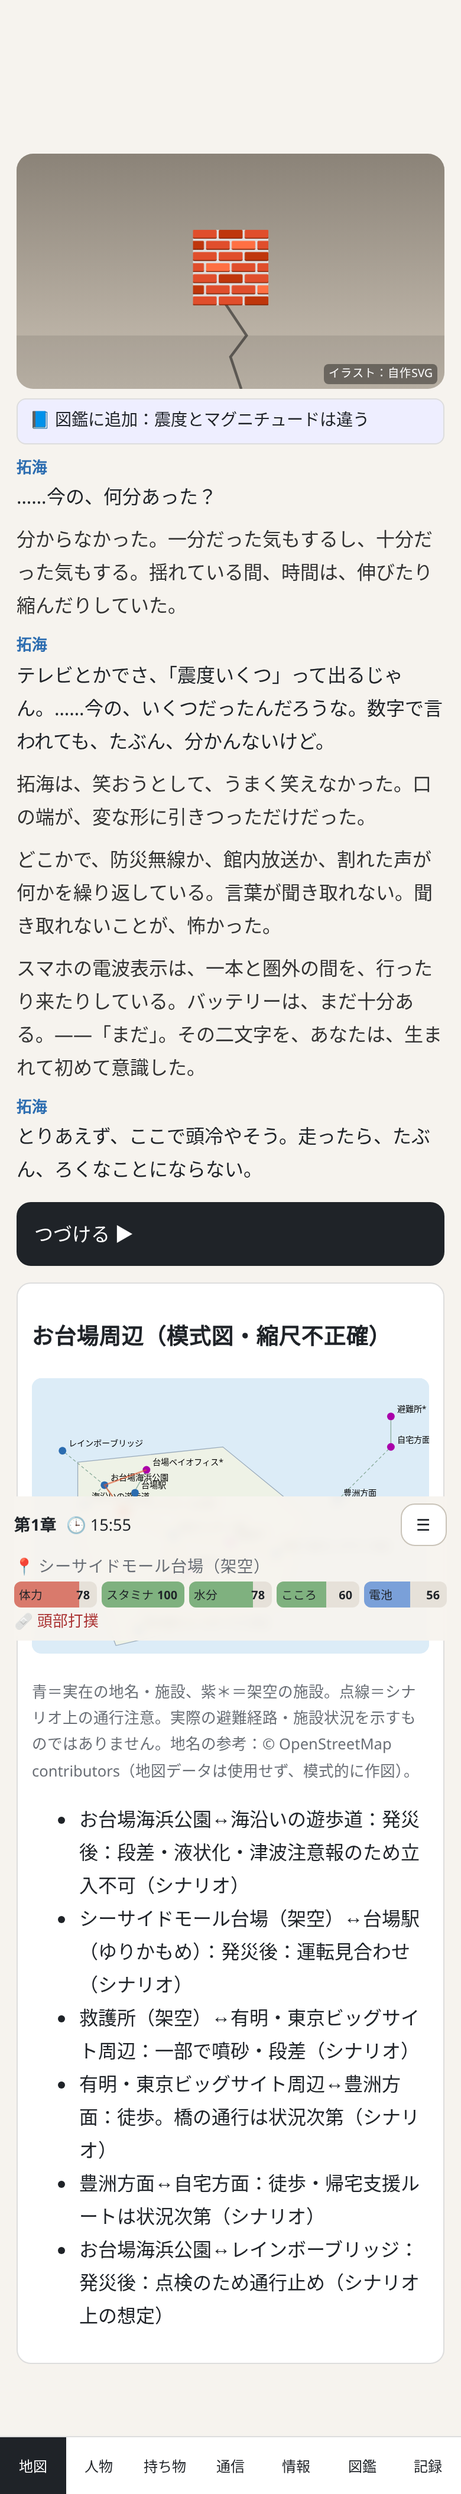
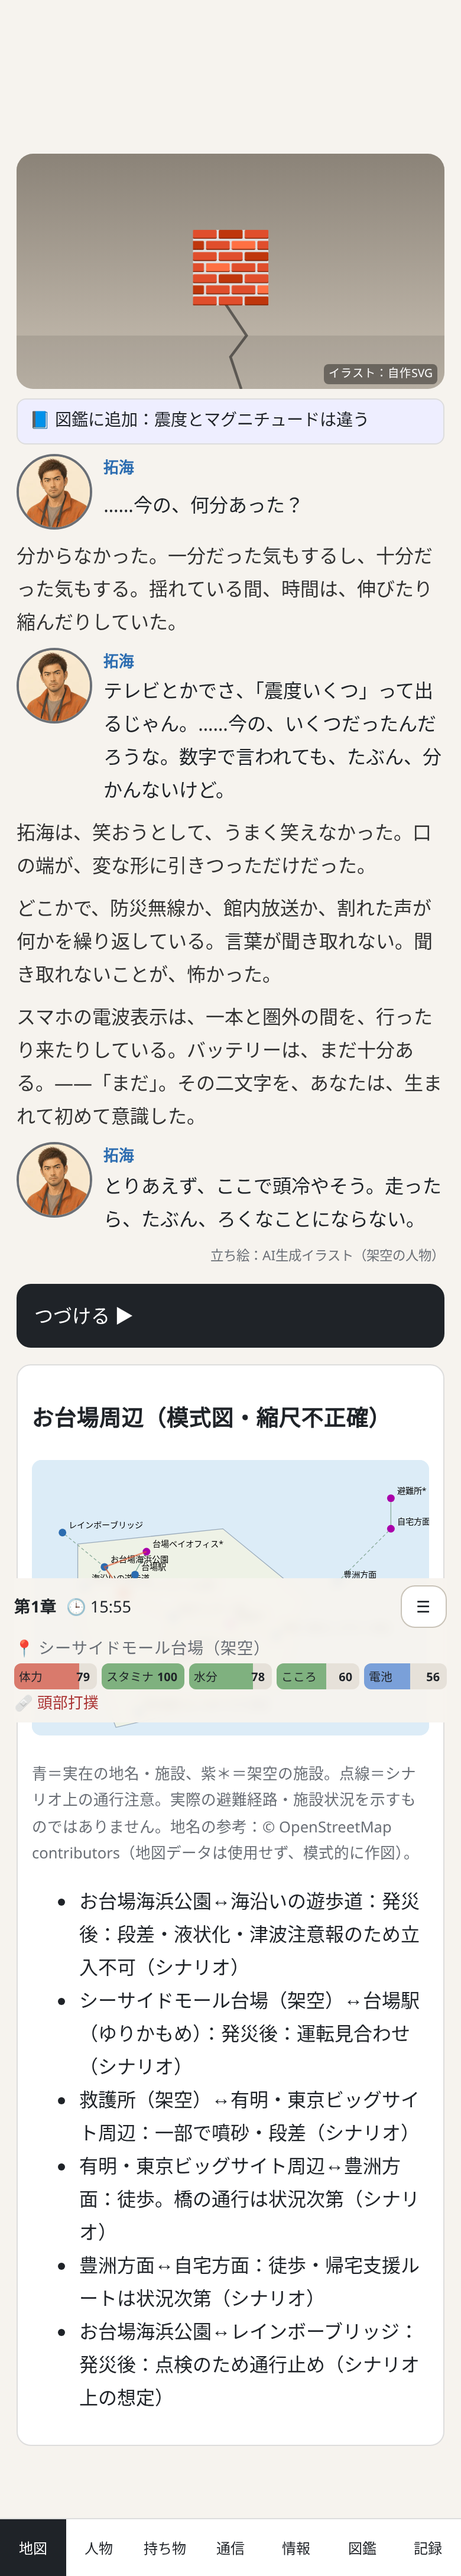
Portraits: 13 AI-generated characters x2 expressions (webp), AI label, settings toggle, RIGHTS.md

diff --git a/src/main.ts b/src/main.ts
@@ -5,6 +5,7 @@ import type { State, PresetId } from './engine/types';
 import { save, load, clearSave, exportText, importText, prefs, setPrefs, addPlay, plays, type Prefs } from './platform/save';
 import { cue, setSound } from './platform/sound';
 import { sceneArt } from './ui/art';
+import { portraitSrc } from './ui/portraits';
 
 export const DISCLAIMER = '本作は防災教育を目的としたシミュレーションゲームです。ゲーム内の地震、被害、施設状況、避難経路、人物の行動は架空のシナリオを含みます。現実の災害時は、気象庁、自治体、消防、警察などの最新の公式情報と現地の状況に従ってください。本作のプレイ結果だけで実際の安全を保証するものではありません。';
 const TITLE = 'ゆれのあと、きみへ。';
@@ -20,6 +21,7 @@ const esc = (t: string) => t.replace(/[&<>"]/g, c => ({ '&': '&amp;', '<': '&lt;
 const h = (html: string) => { app.innerHTML = html; window.scrollTo(0, 0); };
 const F = (t: string) => (S ? esc(fill(t, S)) : esc(t));
 const on = (sel: string, fn: (el: HTMLElement) => void) => app.querySelectorAll<HTMLElement>(sel).forEach(el => el.addEventListener('click', () => { cue('tap'); fn(el); }));
+const say = (who: string, t: string, ch: number) => { const n = S ? fill(who, S) : who; const src = P.portraits ? portraitSrc(n, ch) : null; return `<p class="say${src ? ' wp' : ''}">${src ? `<img class="pt" src="${src}" alt="${esc(n)}（AI生成イラスト）" title="AI生成イラスト" width="64" height="64" loading="lazy" onerror="this.remove()"/>` : ''}<b>${esc(n)}</b>${F(t)}</p>`; };
 const ad = (where: string) => P.ads ? `<div class="ad" data-ad="${where}">広告枠（${where}）— 審査・承認前のため表示されません</div>` : '';
 
 function title() {
@@ -89,7 +91,7 @@ function play() {
       ${s.injuries.length ? `<div class="inj">🩹 ${s.injuries.map(i => esc(DB.injuries[i]?.name ?? i)).join('・')}</div>` : ''}</header>
     <div class="art scene">${sceneArt(sc.bg)}<span class="credit">イラスト：自作SVG</span></div>
     ${fbHtml}${deathHtml}
-    <section class="lines">${sc.lines.map(([who, t]) => who ? `<p class="say"><b>${F(who)}</b>${F(t)}</p>` : `<p class="nar">${F(t)}</p>`).join('')}</section>
+    <section class="lines">${sc.lines.map(([who, t]) => who ? say(who, t, sc.chapter) : `<p class="nar">${F(t)}</p>`).join('')}${P.portraits && sc.lines.some(([w]) => w && portraitSrc(S ? fill(w, S) : w, 0)) ? '<p class="ai-note">立ち絵：AI生成イラスト（架空の人物）</p>' : ''}</section>
     ${photo}${afterHtml}
     ${infoNew.length ? `<section class="infos"><h3>📡 届いた情報</h3>${infoNew.map(infoCard).join('')}</section>` : ''}
     <nav class="choices">${cs.length ? cs.map(c => `<button class="choice" data-c="${c.id}">${c.icon ? `<span class="ic">${c.icon}</span>` : ''}${F(c.label)}${c.hint ? `<small>${F(c.hint)}</small>` : ''}</button>`).join('') : `<button class="choice primary" id="next">つづける ▶</button>`}</nav>
@@ -172,15 +174,16 @@ function settings(back: () => void) {
     <label><input type="checkbox" id="mute" ${P.muted ? 'checked' : ''}/> 音をミュート</label>
     <label>音量 <input type="range" id="vol" min="0" max="1" step="0.1" value="${P.volume}"/></label>
     <label><input type="checkbox" id="calm" ${document.body.classList.contains('calm') ? 'checked' : ''}/> 揺れ・暗転の演出を弱める</label>
+    <label><input type="checkbox" id="pt" ${P.portraits ? 'checked' : ''}/> 登場人物の立ち絵を表示（AI生成イラスト）</label>
     <label><input type="checkbox" id="ads" ${P.ads ? 'checked' : ''}/> 広告枠を表示（初期はOFF。タイトル・章の区切りのみ。現在は審査前のため中身は表示されません）</label>
     <h3>セーブデータ</h3><div class="btns"><button id="exp">書き出し（コピー）</button><button id="imp">読み込み</button><button id="del">セーブ削除</button></div>
     <textarea id="txt" rows="4" placeholder="ここにセーブデータを貼り付けて「読み込み」"></textarea><p id="msg" class="note"></p>
     <h3>免責事項</h3><p class="disc">${DISCLAIMER}</p>
-    <p class="note">イラストは本作のために作成したSVG（自作）です。実在の災害映像・写真は使用していません。</p>
+    <p class="note">背景イラストは本作のために作成したSVG（自作）です。登場人物の立ち絵はAI生成イラスト（架空の人物・実在人物とは無関係）です。実在の災害映像・写真は使用していません。</p>
     <div class="btns"><button class="primary" id="b">戻る</button></div></main>`);
   const g = (id: string) => app.querySelector('#' + id) as HTMLInputElement;
-  const upd = () => { P = { ...P, muted: g('mute').checked, volume: Number(g('vol').value), ads: g('ads').checked }; setPrefs(P); setSound(P.volume, P.muted); document.body.classList.toggle('calm', g('calm').checked); localStorage.setItem('odaiba-afterlines.calm', g('calm').checked ? '1' : ''); };
-  ['mute', 'vol', 'ads', 'calm'].forEach(id => g(id).addEventListener('change', upd));
+  const upd = () => { P = { ...P, muted: g('mute').checked, volume: Number(g('vol').value), ads: g('ads').checked, portraits: g('pt').checked }; setPrefs(P); setSound(P.volume, P.muted); document.body.classList.toggle('calm', g('calm').checked); localStorage.setItem('odaiba-afterlines.calm', g('calm').checked ? '1' : ''); };
+  ['mute', 'vol', 'ads', 'calm', 'pt'].forEach(id => g(id).addEventListener('change', upd));
   on('#exp', () => { const t = exportText(); (app.querySelector('#txt') as HTMLTextAreaElement).value = t; navigator.clipboard?.writeText(t).catch(() => {}); app.querySelector('#msg')!.textContent = t ? '書き出しました（クリップボードにもコピー）' : 'セーブがありません'; });
   on('#imp', () => { const f = importText((app.querySelector('#txt') as HTMLTextAreaElement).value); app.querySelector('#msg')!.textContent = f ? '読み込みました' : '読み込めませんでした（形式が違います）'; if (f) S = f.state; });
   on('#del', () => { if (confirm('セーブを削除しますか？')) { clearSave(); S = null; app.querySelector('#msg')!.textContent = '削除しました'; } });

diff --git a/src/ui/portraits.ts b/src/ui/portraits.ts
@@ -1,0 +1,16 @@
+// AI生成の立ち絵（架空の人物。実在人物の肖像ではありません）。docs/RIGHTS.md 参照。
+const NAMES: [string, string][] = [
+  ['湊', 'minato'], ['千夏の母', ''], ['千夏', 'chinatsu'], ['陽菜', 'hina'], ['葵', 'aoi'], ['蓮', 'ren'], ['ふみ', 'fumi'],
+  ['拓海', 'takumi'], ['健司', 'kenji'], ['美咲', 'misaki'], ['律', 'ritsu'], ['ひかり', 'hikari'], ['田辺', 'tanabe'], ['エミリー', 'emily'],
+];
+export function portraitKey(who: string): string | null {
+  for (const [n, k] of NAMES) if (who.includes(n)) return k || null;
+  return null;
+}
+/** ch1–3 は不安顔、それ以外は通常 */
+export function portraitSrc(who: string, chapter: number): string | null {
+  const k = portraitKey(who); if (!k) return null;
+  const mood = chapter >= 1 && chapter <= 3 ? 'worried' : 'neutral';
+  return `${import.meta.env.BASE_URL}portraits/${k}_${mood}.webp`;
+}
+export const PORTRAIT_KEYS = ['minato', 'chinatsu', 'hina', 'aoi', 'ren', 'fumi', 'takumi', 'kenji', 'misaki', 'ritsu', 'hikari', 'tanabe', 'emily'];

diff --git a/src/platform/save.ts b/src/platform/save.ts
@@ -4,8 +4,8 @@ const KEY = 'odaiba-afterlines.save';
 const PREF = 'odaiba-afterlines.prefs';
 const PLAYS = 'odaiba-afterlines.plays';
 export interface SaveFile { app: 'odaiba-afterlines'; v: number; savedAt: string; state: State }
-export interface Prefs { volume: number; muted: boolean; ads: boolean; textSpeed: 'normal' | 'instant'; seenDisclaimer: boolean }
-export const defaultPrefs: Prefs = { volume: 0.5, muted: true, ads: false, textSpeed: 'normal', seenDisclaimer: false };
+export interface Prefs { volume: number; muted: boolean; ads: boolean; textSpeed: 'normal' | 'instant'; seenDisclaimer: boolean; portraits: boolean }
+export const defaultPrefs: Prefs = { volume: 0.5, muted: true, ads: false, textSpeed: 'normal', seenDisclaimer: false, portraits: true };
 
 export function migrate(raw: unknown): SaveFile | null {
   if (!raw || typeof raw !== 'object') return null;

diff --git a/tests/portraits.test.ts b/tests/portraits.test.ts
@@ -1,0 +1,8 @@
+import { describe, it, expect } from 'vitest';
+import { existsSync } from 'fs';
+import { portraitKey, portraitSrc, PORTRAIT_KEYS } from '../src/ui/portraits';
+describe('portraits', () => {
+  it('maps names', () => { expect(portraitKey('宮下 湊')).toBe('minato'); expect(portraitKey('祖母・ふみ')).toBe('fumi'); expect(portraitKey('千夏の母')).toBeNull(); expect(portraitKey('係員')).toBeNull(); });
+  it('mood by chapter', () => { expect(portraitSrc('律', 2)).toMatch(/ritsu_worried/); expect(portraitSrc('律', 5)).toMatch(/ritsu_neutral/); });
+  it('files exist', () => { for (const k of PORTRAIT_KEYS) for (const m of ['neutral', 'worried']) expect(existsSync(`public/portraits/${k}_${m}.webp`)).toBe(true); });
+});

diff --git a/src/style.css b/src/style.css
@@ -43,3 +43,7 @@ textarea{width:100%;font:inherit;font-size:.75rem}
 body.calm .scene{animation:none!important}body.calm .scene::after{display:none}
 @media (prefers-reduced-motion:reduce){.scene{animation:none!important}.scene::after{display:none}}
 @media (min-width:900px){main{padding-top:20px}.bars{grid-template-columns:repeat(5,1fr)}}
+.say.wp{display:grid;grid-template-columns:64px 1fr;column-gap:.6rem;align-items:start}
+.say.wp .pt{grid-row:span 2;width:64px;height:64px;border-radius:50%;object-fit:cover;object-position:50% 25%;border:2px solid var(--mut);background:#f5ecd9}
+.say.wp b{display:block}
+.ai-note{font-size:.7rem;color:var(--mut);text-align:right;margin:.2rem 0 0}

diff --git a/docs/RIGHTS.md b/docs/RIGHTS.md
@@ -1,14 +1,15 @@
-# RIGHTS（権利台帳）
+# 素材・権利表記（RIGHTS）
 
-| 素材 | 種類 | 作成/出典 | 権利 | 表示 |
-|---|---|---|---|---|
-| 場面イラスト31種 | SVG（コードで生成） | 本プロジェクト自作 `src/ui/art.ts` | 自作 | 「イラスト：自作SVG」 |
-| 絵文字モチーフ | OS/ブラウザ標準フォント | 各端末のフォント | 表示のみ（同梱なし） | — |
-| 地図 | 模式図（自作SVG） | 地名の位置関係の参考：OpenStreetMap | ODbL。地図データ・タイルは同梱していない | 「© OpenStreetMap contributors」 |
-| 効果音 | WebAudioで実行時生成 | 自作 | 自作 | — |
-| 文章・シナリオ | テキスト | 自作 | 自作 | — |
-| 防災知識 | 要約（引用ではない） | docs/SOURCES.md の公的資料 | 出典明記 | 図鑑に出典URL |
+## 背景イラスト
+- `src/ui/art.ts` のSVG：本作のために自作。実在の災害写真・映像は不使用。
 
-- AI生成画像：**未使用**（使用する場合は「AI生成イメージ」と表示し、この表に追記する）。
-- 実在の災害写真・映像：**未使用**。
-- 実在の人物・企業：使用しない。架空の施設・アカウント名は「（架空）」と表示。
+## 登場人物の立ち絵（AI生成）
+- `public/portraits/*.webp`（13人 × 2表情 = 26枚、320×320 webp、合計約270KB）
+- 生成：Grok Bot の画像生成機能（GenerateImage）で本作のために生成。追加費用・外部有料契約なし。
+- すべて**架空の人物**。実在人物・有名人の写真や名前を参照・指定していません（似せる指示なし）。
+- 表情：neutral（序章・4章・5章）／worried（1〜3章）。
+- UI上で「AI生成イラスト」と表記（台詞の下の注記・画像のalt/title・設定画面）。設定で非表示にできます。
+- 対象：湊・千夏・陽菜・葵・蓮・ふみ・拓海・健司・美咲・律・ひかり・田辺・エミリー
+
+## 音
+- 効果音：WebAudioでその場で合成（音源ファイルなし）。初期ミュート。
